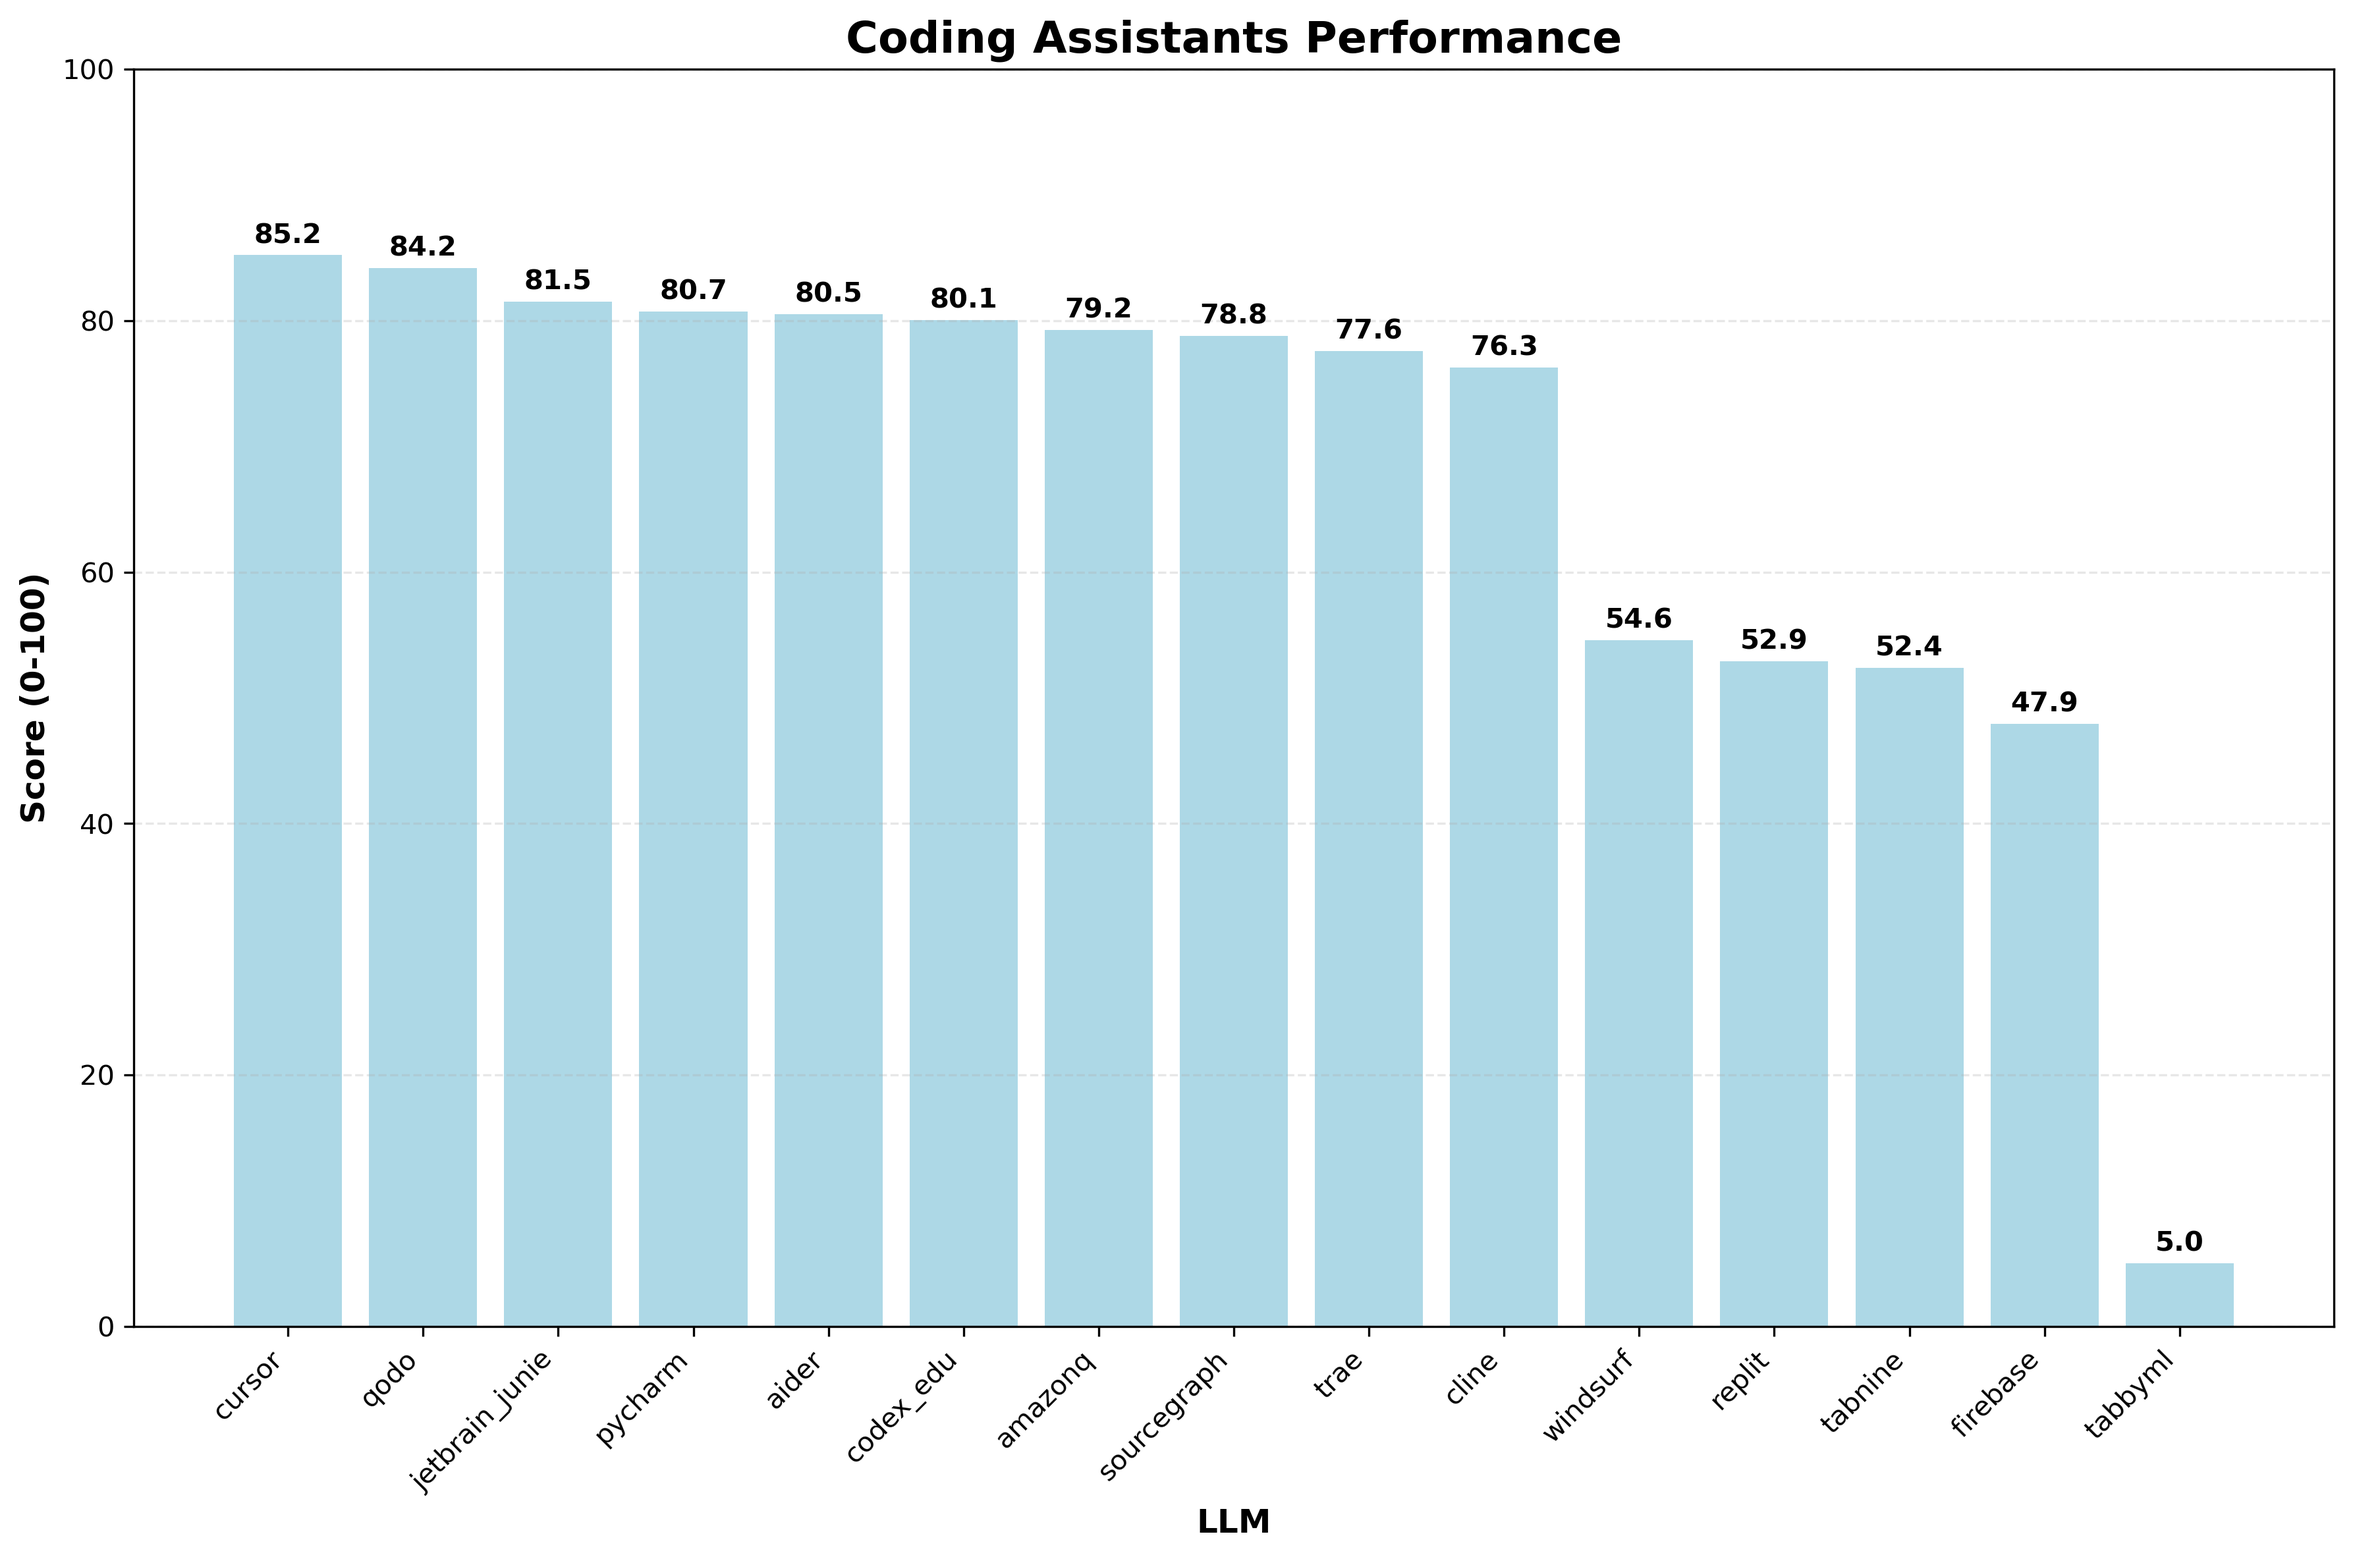
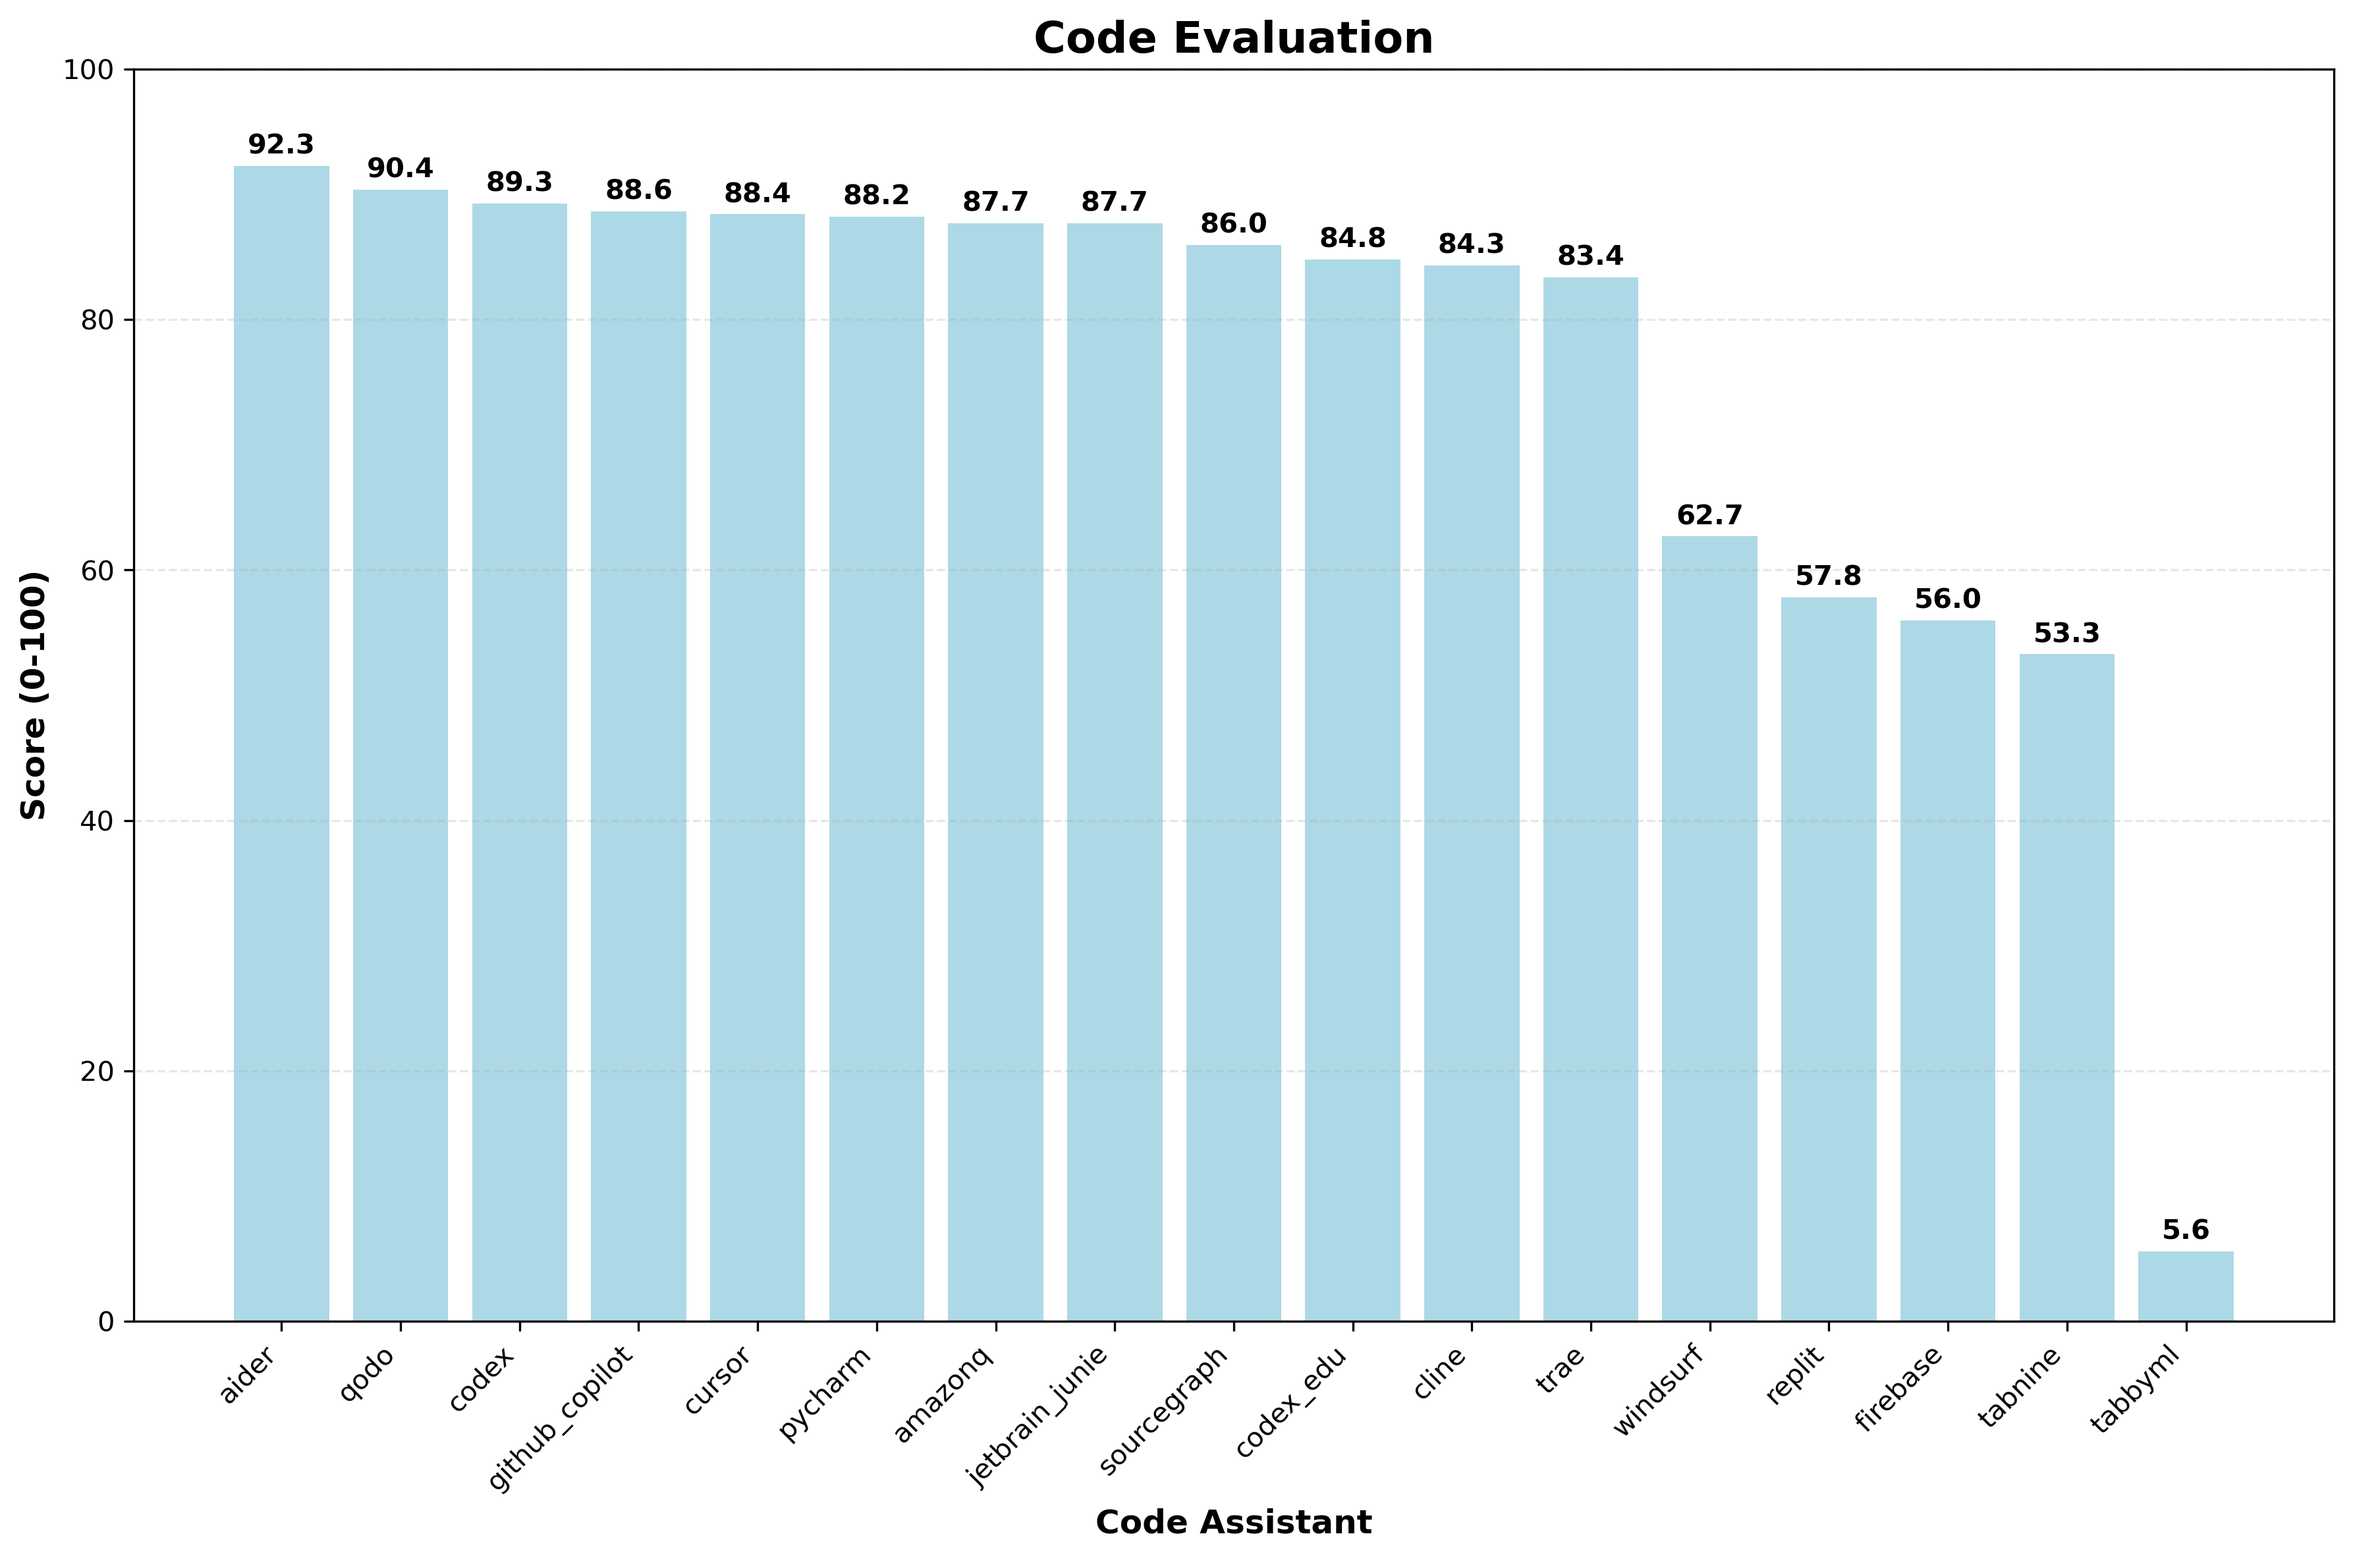
refresh scores

diff --git a/generate_plot.py b/generate_plot.py
@@ -103,8 +103,8 @@ def create_plot(scores):
         bars1 = plt.bar(llms, score_values, color='#ADD8E6')
         
         # Customize the plot
-        plt.title('Coding Assistants Performance', fontsize=16, fontweight='bold')
-        plt.xlabel('LLM', fontsize=12, fontweight='bold')
+        plt.title('Code Evaluation', fontsize=16, fontweight='bold')
+        plt.xlabel('Code Assistant', fontsize=12, fontweight='bold')
         plt.ylabel('Score (0-100)', fontsize=12, fontweight='bold')
         plt.xticks(rotation=45, ha='right')
         plt.ylim(0, 100)
@@ -128,8 +128,8 @@ def create_plot(scores):
         bars2 = plt.bar(llms, score_values, color='#87CEEB')
         
         # Customize the plot
-        plt.title('General LLMs Performance', fontsize=16, fontweight='bold')
-        plt.xlabel('LLM', fontsize=12, fontweight='bold')
+        plt.title('Code Evaluation Reference', fontsize=16, fontweight='bold')
+        plt.xlabel('Model', fontsize=12, fontweight='bold')
         plt.ylabel('Score (0-100)', fontsize=12, fontweight='bold')
         plt.xticks(rotation=45, ha='right')
         plt.ylim(0, 100)

diff --git a/generate_feature_plot.py b/generate_feature_plot.py
@@ -51,7 +51,7 @@ def create_feature_plot():
         bars = plt.bar(tools, scores, color=color, alpha=0.8)
         
         # Customize the plot
-        plt.title('Coding Assistants Feature-Based Scoring', fontsize=16, fontweight='bold')
+        plt.title('Comparative analysis', fontsize=16, fontweight='bold')
         plt.xlabel('Coding Assistant', fontsize=12, fontweight='bold')
         plt.ylabel('Feature Score', fontsize=12, fontweight='bold')
         plt.xticks(rotation=45, ha='right')
